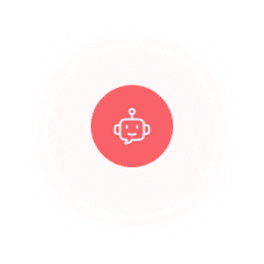
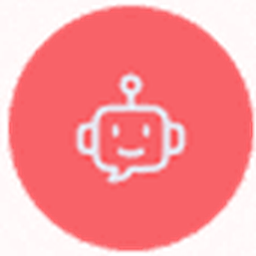
Make the bot glyph visible and give the platform section prominence
The chat button looked almost empty because bot-icon.png was mostly
padding: the coral disc filled only 31% of the PNG and the white robot
41% of that, so the glyph drew at roughly 10px inside an 83px button.
Cropped the file to the disc and let it fill the button - the glyph is
now 41% of the icon instead of 13%.

The unified-commerce section carries the enterprise pitch, so it now
reads as a feature block rather than another white run of text:

- its own tinted band, so it separates from the white sections above
  and below
- cards lift off that band with a soft shadow, larger padding and type
- the platform-layer column takes a coral tint and border, making the
  middle column the visual anchor
- larger heading and a coral dot in the kicker

Verified: 0 overflowing elements at 390px and 1440px, CLS unchanged.

diff --git a/index.html b/index.html
@@ -281,15 +281,17 @@ height="0" width="0" style="display:none;visibility:hidden"></iframe></noscript>
 
   /* platform-layer flow: need -> layer -> outcome, joined by travelling dotted lines */
   .yc-flow { display: grid; grid-template-columns: minmax(0,1fr) 54px minmax(0,1fr) 54px minmax(0,1.5fr);
-    gap: 10px 0; align-items: stretch; }
-  .yc-flow-head { background: #0B1D3A; color: #fff; border-radius: 13px; padding: 13px 18px;
-    font-size: 13.5px; font-weight: 700; letter-spacing: 0.055em; text-transform: uppercase; }
-  .yc-flow-cell { border: 1px solid #EDE9EA; background: #fff; border-radius: 13px; padding: 15px 18px;
-    font-size: 15px; line-height: 1.5; color: #0B1D3A; display: flex; align-items: center;
+    gap: 12px 0; align-items: stretch; }
+  .yc-flow-head { background: #0B1D3A; color: #fff; border-radius: 14px; padding: 15px 20px;
+    font-size: 14px; font-weight: 700; letter-spacing: 0.06em; text-transform: uppercase;
+    box-shadow: 0 10px 24px rgba(11,29,58,0.16); }
+  .yc-flow-cell { border: 1px solid #E4E9F4; background: #fff; border-radius: 14px; padding: 18px 20px;
+    font-size: 15.5px; line-height: 1.5; color: #0B1D3A; display: flex; align-items: center;
+    box-shadow: 0 3px 12px rgba(11,29,58,0.05);
     transition: transform .28s cubic-bezier(.2,.7,.3,1), box-shadow .28s ease, border-color .28s ease; }
-  .yc-flow-cell.is-layer { background: #FBF7F8; font-weight: 700; }
-  .yc-flow-cell.is-does { color: #4A5878; font-size: 14.5px; }
-  .yc-flow-row:hover .yc-flow-cell { border-color: #F8CDD1; box-shadow: 0 14px 32px rgba(11,29,58,0.07); }
+  .yc-flow-cell.is-layer { background: #FFF3F4; border-color: #F8CDD1; font-weight: 700; }
+  .yc-flow-cell.is-does { color: #4A5878; font-size: 15px; }
+  .yc-flow-row:hover .yc-flow-cell { border-color: #F8CDD1; box-shadow: 0 16px 36px rgba(11,29,58,0.11); }
   .yc-flow-row:hover .yc-flow-cell.is-need { transform: translateX(-2px); }
   .yc-flow-row:hover .yc-flow-cell.is-does { transform: translateX(2px); }
   /* the connector itself: dots that travel from one box to the next */
@@ -466,13 +468,13 @@ height="0" width="0" style="display:none;visibility:hidden"></iframe></noscript>
     </div>
   </section>
 
-  <section style="padding: 0 30px 80px">
+  <section style="padding: 78px 30px 84px; background: linear-gradient(180deg, #F3F6FD 0%, #F9FAFE 58%, #ffffff 100%)">
     <div style="max-width: 1280px; margin: 0 auto">
-      <div style="display: inline-flex; align-items: center; gap: 9px; padding: 9px 18px; border: 1px solid #E7E3E4; border-radius: 999px; font-size: 13px; letter-spacing: 0.09em; color: #0B1D3A">
-        <span style="width: 6px; height: 6px; border-radius: 50%; background: #0B1D3A"></span>ENTERPRISE &middot; UNIFIED COMMERCE
+      <div style="display: inline-flex; align-items: center; gap: 9px; padding: 9px 18px; border: 1px solid #D9E0F0; background: #fff; border-radius: 999px; font-size: 13px; letter-spacing: 0.09em; color: #0B1D3A">
+        <span style="width: 6px; height: 6px; border-radius: 50%; background: #F96167"></span>ENTERPRISE &middot; UNIFIED COMMERCE
       </div>
       <div style="margin-top: 30px; display: grid; grid-template-columns: repeat(auto-fit, minmax(330px, 1fr)); gap: 48px; align-items: start">
-        <h2 style="font-size: clamp(28px, 3.6vw, 44px); line-height: 1.25">One platform for<br /><span style="color: #F96167">every merchant need.</span></h2>
+        <h2 style="font-size: clamp(31px, 4.1vw, 50px); line-height: 1.2">One platform for<br /><span style="color: #F96167">every merchant need.</span></h2>
         <p style="font-size: 17px; line-height: 1.65; color: #4A5878">For Enterprise buyers the same platform is presented in unified-commerce terms &mdash; a set of connected clouds &mdash; with payments and embedded finance built in rather than integrated.</p>
       </div>
       <div class="yc-flow" style="margin-top: 38px">
@@ -3068,7 +3070,7 @@ height="0" width="0" style="display:none;visibility:hidden"></iframe></noscript>
   </sc-if>
   <div onClick="{{ toggleSupport }}" style="width: 83px; height: 83px; border-radius: 50%; background: {{ supportFabBg }}; color: #fff; display: flex; align-items: center; justify-content: center; font-size: 28px; cursor: pointer; box-shadow: {{ supportFabShadow }}; transition: transform .25s cubic-bezier(.2,.7,.3,1.4)" style-hover="transform: scale(1.08)">
     <sc-if value="{{ supportOpen }}" hint-placeholder-val="{{ false }}"><span>✕</span></sc-if>
-    <sc-if value="{{ supportClosed }}" hint-placeholder-val="{{ true }}"><img loading="lazy" decoding="async" src="img/bot-icon.png" alt="Support assistant" style="width: 124%; height: 124%; margin: -12%; display: block" /></sc-if>
+    <sc-if value="{{ supportClosed }}" hint-placeholder-val="{{ true }}"><img loading="lazy" decoding="async" src="img/bot-icon.png" alt="Support assistant" style="width: 100%; height: 100%; margin: 0; display: block" /></sc-if>
   </div>
 </div>
 

diff --git a/youcloud.dc.html b/youcloud.dc.html
@@ -281,15 +281,17 @@ height="0" width="0" style="display:none;visibility:hidden"></iframe></noscript>
 
   /* platform-layer flow: need -> layer -> outcome, joined by travelling dotted lines */
   .yc-flow { display: grid; grid-template-columns: minmax(0,1fr) 54px minmax(0,1fr) 54px minmax(0,1.5fr);
-    gap: 10px 0; align-items: stretch; }
-  .yc-flow-head { background: #0B1D3A; color: #fff; border-radius: 13px; padding: 13px 18px;
-    font-size: 13.5px; font-weight: 700; letter-spacing: 0.055em; text-transform: uppercase; }
-  .yc-flow-cell { border: 1px solid #EDE9EA; background: #fff; border-radius: 13px; padding: 15px 18px;
-    font-size: 15px; line-height: 1.5; color: #0B1D3A; display: flex; align-items: center;
+    gap: 12px 0; align-items: stretch; }
+  .yc-flow-head { background: #0B1D3A; color: #fff; border-radius: 14px; padding: 15px 20px;
+    font-size: 14px; font-weight: 700; letter-spacing: 0.06em; text-transform: uppercase;
+    box-shadow: 0 10px 24px rgba(11,29,58,0.16); }
+  .yc-flow-cell { border: 1px solid #E4E9F4; background: #fff; border-radius: 14px; padding: 18px 20px;
+    font-size: 15.5px; line-height: 1.5; color: #0B1D3A; display: flex; align-items: center;
+    box-shadow: 0 3px 12px rgba(11,29,58,0.05);
     transition: transform .28s cubic-bezier(.2,.7,.3,1), box-shadow .28s ease, border-color .28s ease; }
-  .yc-flow-cell.is-layer { background: #FBF7F8; font-weight: 700; }
-  .yc-flow-cell.is-does { color: #4A5878; font-size: 14.5px; }
-  .yc-flow-row:hover .yc-flow-cell { border-color: #F8CDD1; box-shadow: 0 14px 32px rgba(11,29,58,0.07); }
+  .yc-flow-cell.is-layer { background: #FFF3F4; border-color: #F8CDD1; font-weight: 700; }
+  .yc-flow-cell.is-does { color: #4A5878; font-size: 15px; }
+  .yc-flow-row:hover .yc-flow-cell { border-color: #F8CDD1; box-shadow: 0 16px 36px rgba(11,29,58,0.11); }
   .yc-flow-row:hover .yc-flow-cell.is-need { transform: translateX(-2px); }
   .yc-flow-row:hover .yc-flow-cell.is-does { transform: translateX(2px); }
   /* the connector itself: dots that travel from one box to the next */
@@ -466,13 +468,13 @@ height="0" width="0" style="display:none;visibility:hidden"></iframe></noscript>
     </div>
   </section>
 
-  <section style="padding: 0 30px 80px">
+  <section style="padding: 78px 30px 84px; background: linear-gradient(180deg, #F3F6FD 0%, #F9FAFE 58%, #ffffff 100%)">
     <div style="max-width: 1280px; margin: 0 auto">
-      <div style="display: inline-flex; align-items: center; gap: 9px; padding: 9px 18px; border: 1px solid #E7E3E4; border-radius: 999px; font-size: 13px; letter-spacing: 0.09em; color: #0B1D3A">
-        <span style="width: 6px; height: 6px; border-radius: 50%; background: #0B1D3A"></span>ENTERPRISE &middot; UNIFIED COMMERCE
+      <div style="display: inline-flex; align-items: center; gap: 9px; padding: 9px 18px; border: 1px solid #D9E0F0; background: #fff; border-radius: 999px; font-size: 13px; letter-spacing: 0.09em; color: #0B1D3A">
+        <span style="width: 6px; height: 6px; border-radius: 50%; background: #F96167"></span>ENTERPRISE &middot; UNIFIED COMMERCE
       </div>
       <div style="margin-top: 30px; display: grid; grid-template-columns: repeat(auto-fit, minmax(330px, 1fr)); gap: 48px; align-items: start">
-        <h2 style="font-size: clamp(28px, 3.6vw, 44px); line-height: 1.25">One platform for<br /><span style="color: #F96167">every merchant need.</span></h2>
+        <h2 style="font-size: clamp(31px, 4.1vw, 50px); line-height: 1.2">One platform for<br /><span style="color: #F96167">every merchant need.</span></h2>
         <p style="font-size: 17px; line-height: 1.65; color: #4A5878">For Enterprise buyers the same platform is presented in unified-commerce terms &mdash; a set of connected clouds &mdash; with payments and embedded finance built in rather than integrated.</p>
       </div>
       <div class="yc-flow" style="margin-top: 38px">
@@ -3068,7 +3070,7 @@ height="0" width="0" style="display:none;visibility:hidden"></iframe></noscript>
   </sc-if>
   <div onClick="{{ toggleSupport }}" style="width: 83px; height: 83px; border-radius: 50%; background: {{ supportFabBg }}; color: #fff; display: flex; align-items: center; justify-content: center; font-size: 28px; cursor: pointer; box-shadow: {{ supportFabShadow }}; transition: transform .25s cubic-bezier(.2,.7,.3,1.4)" style-hover="transform: scale(1.08)">
     <sc-if value="{{ supportOpen }}" hint-placeholder-val="{{ false }}"><span>✕</span></sc-if>
-    <sc-if value="{{ supportClosed }}" hint-placeholder-val="{{ true }}"><img loading="lazy" decoding="async" src="img/bot-icon.png" alt="Support assistant" style="width: 124%; height: 124%; margin: -12%; display: block" /></sc-if>
+    <sc-if value="{{ supportClosed }}" hint-placeholder-val="{{ true }}"><img loading="lazy" decoding="async" src="img/bot-icon.png" alt="Support assistant" style="width: 100%; height: 100%; margin: 0; display: block" /></sc-if>
   </div>
 </div>
 
